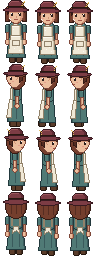
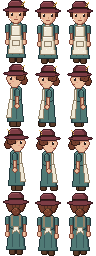
Mira: replace the bob with a centre-parted low bun
Claude-Session: https://claude.ai/code/session_01NvFAa9nga9ook5zdC6nh3r

diff --git a/tools/concept_art/mira_hd.py b/tools/concept_art/mira_hd.py
@@ -104,14 +104,24 @@ def sprite_front(step=0, back=False, apron=False, hat=True):
     part(im, lambda d: d.rectangle((13, 18 + by, 18, 23 + by), fill=255), SKIN, shade=(0, 0), light_top=0)
     put(im, [(x, 19 + by) for x in range(14, 18)] + [(x, 20 + by) for x in range(14, 18)], SKIN[1])
     if back:
-        part(im, lambda d: d.ellipse((5, 3 + by, 26, 26 + by), fill=255), HAIR)
-        put(im, [(x, y + by) for x in (11, 16, 21) for y in range(13, 22)], HAIR[1])
-    else:  # bob: crown plus straight locks beside the face (none under the chin)
-        part(im, lambda d: (d.ellipse((5, 3 + by, 26, 19 + by), fill=255), d.rectangle((5, 10 + by, 9, 21 + by), fill=255), d.rectangle((22, 10 + by, 26, 21 + by), fill=255)), HAIR)
+        # hair pulled back into a low bun at the nape
+        part(im, lambda d: d.ellipse((6, 3 + by, 25, 21 + by), fill=255), HAIR)
+        dr = ImageDraw.Draw(im)
+        for a, b in (((10, 7), (13, 17)), ((15, 5), (15, 16)), ((21, 7), (18, 17))):
+            dr.line([(a[0], a[1] + by), (b[0], b[1] + by)], fill=HAIR[1] + (255,))
+        part(im, lambda d: d.ellipse((11, 15 + by, 20, 23 + by), fill=255), HAIR, shade=(2, 0))
+        put(im, [(x, 15 + by) for x in range(13, 19)], BAND[2])  # ribbon
+        put(im, [(14, 18 + by), (16, 17 + by), (17, 20 + by)], HAIR[3])
+    else:
+        # centre parting, hair swept back over the ears into a low bun (hidden from the front)
+        part(im, lambda d: d.ellipse((6, 3 + by, 25, 17 + by), fill=255), HAIR)
         part(im, lambda d: d.ellipse((8, 5 + by, 23, 23 + by), fill=255), SKIN, shade=(3, 0), light_top=0)
-        part(im, lambda d: (d.chord((5, 3 + by, 26, 19 + by), 180, 360, fill=255),
-                            d.polygon([(7, 9 + by), (24, 9 + by), (24, 12 + by), (21, 11 + by), (18, 13 + by), (15, 11 + by), (12, 13 + by), (9, 11 + by), (7, 14 + by)], fill=255)),
-             HAIR, shade=(3, 0))
+        part(im, lambda d: d.polygon([(6, 15 + by), (6, 8 + by), (9, 4 + by), (13, 3 + by), (18, 3 + by), (22, 4 + by), (25, 8 + by), (25, 15 + by),
+                                      (23, 15 + by), (22, 10 + by), (19, 8 + by), (16, 8 + by), (15, 8 + by), (12, 8 + by), (9, 10 + by), (8, 15 + by)], fill=255),
+             HAIR, shade=(2, 0))
+        put(im, [(15, 4 + by), (15, 5 + by), (15, 6 + by), (16, 7 + by)], HAIR[1])            # parting
+        put(im, [(11, 5 + by), (19, 4 + by), (21, 5 + by), (10, 7 + by)], HAIR[3])             # shine
+        put(im, [(8, 16 + by), (8, 17 + by), (9, 18 + by)], HAIR[1])                           # loose strand
         y = 13 + by
         for ex in (11, 19):
             put(im, [(ex, y), (ex + 1, y), (ex, y + 1), (ex + 1, y + 1), (ex, y + 2), (ex + 1, y + 2)], INK)
@@ -125,9 +135,6 @@ def sprite_front(step=0, back=False, apron=False, hat=True):
     if hat:
         hat_front(im, by, back)
         put(im, [(x, 12 + by) for x in range(9, 23)] if not back else [], SKIN[1])  # shadow under the brim
-    else:
-        put(im, [(10, 6 + by), (13, 4 + by), (18, 4 + by), (21, 6 + by), (12, 7 + by), (19, 7 + by)], HAIR[3])
-        put(im, [(15, 4 + by), (15, 5 + by), (16, 6 + by)], HAIR[1])  # parting
     return im
 
 
@@ -149,12 +156,15 @@ def sprite_side(step=0, apron=False, hat=True):
     part(im, lambda d: d.rectangle((13 + sw // 2, 32 + by, 16 + sw // 2, 41 + by), fill=255), SKIN, light_top=0)
     part(im, lambda d: d.ellipse((12 + sw, 39 + by, 17 + sw, 44 + by), fill=255), SKIN, light_top=0)
     part(im, lambda d: d.rectangle((14, 18 + by, 18, 23 + by), fill=255), SKIN, shade=(0, 0), light_top=0)
-    part(im, lambda d: d.ellipse((6, 3 + by, 23, 25 + by), fill=255), HAIR)
+    part(im, lambda d: d.ellipse((6, 3 + by, 22, 19 + by), fill=255), HAIR)
+    part(im, lambda d: d.ellipse((4, 12 + by, 11, 20 + by), fill=255), HAIR, shade=(0, 0))      # low bun
+    put(im, [(10, 13 + by), (10, 14 + by), (10, 15 + by)], BAND[2])                               # ribbon
     part(im, lambda d: (d.ellipse((10, 5 + by, 24, 23 + by), fill=255), d.rectangle((23, 13 + by, 25, 15 + by), fill=255)), SKIN, shade=(0, 0), light_top=0)
-    part(im, lambda d: (d.chord((6, 3 + by, 25, 21 + by), 180, 360, fill=255),
-                        d.polygon([(9, 9 + by), (24, 9 + by), (24, 11 + by), (21, 12 + by), (18, 10 + by), (15, 12 + by), (12, 11 + by), (12, 18 + by), (9, 16 + by)], fill=255)),
-         HAIR, shade=(3, 0))
-    put(im, [(14, 13 + by), (14, 14 + by), (15, 15 + by)], SKIN[1])  # ear hint
+    part(im, lambda d: d.polygon([(7, 15 + by), (6, 8 + by), (9, 4 + by), (14, 3 + by), (20, 4 + by), (23, 7 + by), (24, 10 + by), (21, 9 + by),
+                                  (18, 9 + by), (16, 11 + by), (15, 15 + by), (12, 16 + by), (9, 16 + by)], fill=255), HAIR, shade=(0, 0))
+    put(im, [(16, 12 + by), (16, 13 + by), (17, 13 + by), (16, 14 + by)], SKIN[1])  # ear
+    put(im, [(12, 5 + by), (16, 4 + by), (19, 5 + by), (9, 8 + by)], HAIR[3])
+    put(im, [(13, 8 + by), (12, 11 + by), (11, 13 + by)], HAIR[1])
     put(im, [(20, 13 + by), (21, 13 + by), (20, 14 + by), (21, 14 + by), (20, 15 + by), (21, 15 + by)], INK)
     put(im, [(21, 13 + by)], (255, 255, 255))
     put(im, [(19, 12 + by), (22, 12 + by)], INK)
@@ -166,8 +176,6 @@ def sprite_side(step=0, apron=False, hat=True):
         part(im, lambda d: d.ellipse((4, 7 + by, 28, 11 + by), fill=255), HAT, shade=(3, 0), light_top=0)
         put(im, [(9, 3 + by), (8, 2 + by), (7, 1 + by), (9, 5 + by)], WHEAT)
         put(im, [(x, 12 + by) for x in range(17, 24)], SKIN[1])
-    else:
-        put(im, [(11, 5 + by), (14, 4 + by), (18, 5 + by), (9, 9 + by), (13, 7 + by)], HAIR[3])
     return im
 
 
@@ -184,16 +192,23 @@ def portrait(expr, apron=False, hat=True):
         put(im, [(40, 110), (43, 113), (41, 117), (86, 108), (89, 112)], FLOUR)
     part(im, lambda d: d.rectangle((50, 76, 77, 104), fill=255), SKIN, shade=(5, 0), light_top=0)
     put(im, [(x, y) for x in range(51, 77) for y in range(80, 86)], SKIN[1])
-    part(im, lambda d: (d.ellipse((24, 18, 104, 98), fill=255), d.rectangle((24, 58, 36, 94), fill=255), d.rectangle((92, 58, 104, 90), fill=255)), HAIR, shade=(4, 0))
+    part(im, lambda d: d.ellipse((81, 66, 101, 90), fill=255), HAIR, shade=(3, 0))          # low bun, tucked behind the jaw
+    part(im, lambda d: d.ellipse((30, 14, 98, 78), fill=255), HAIR, shade=(4, 0))
     part(im, lambda d: d.ellipse((31, 54, 41, 70), fill=255), SKIN, shade=(0, 0), light_top=0)
     part(im, lambda d: d.ellipse((87, 54, 97, 70), fill=255), SKIN, shade=(0, 0), light_top=0)
     part(im, lambda d: d.ellipse((35, 24, 93, 96), fill=255), SKIN, shade=(6, 0), light_top=0)
-    part(im, lambda d: (d.chord((26, 14, 102, 70), 180, 360, fill=255),
-                        d.polygon([(36, 36), (92, 36), (94, 46), (88, 43), (82, 50), (76, 42), (68, 47), (60, 41), (52, 48), (46, 42), (40, 50), (35, 47)], fill=255)),
-         HAIR, shade=(4, 0), light_top=0)
+    # centre parting, hair swept back over the ears
+    part(im, lambda d: d.polygon([(31, 68), (30, 46), (35, 30), (46, 20), (58, 15), (70, 15), (82, 20), (93, 30), (98, 46), (97, 68),
+                                  (92, 68), (91, 52), (86, 42), (77, 35), (67, 32), (64, 35), (61, 32), (51, 35), (42, 42), (37, 52), (36, 68)], fill=255),
+         HAIR, shade=(4, 0), light_top=1)
     d = ImageDraw.Draw(im)
-    for a, b in (((50, 40), (46, 42)), ((62, 40), (60, 41)), ((74, 40), (76, 42)), ((86, 40), (88, 43))):
+    d.line([(64, 16), (64, 33)], fill=HAIR[1] + (255,))
+    for a, b in (((62, 19), (44, 34)), ((60, 23), (39, 47)), ((66, 19), (84, 34)), ((68, 23), (90, 47))):
         d.line([a, b], fill=HAIR[1] + (255,))
+    for a, b in (((56, 19), (46, 27)), ((72, 19), (82, 27)), ((51, 27), (38, 42)), ((77, 27), (91, 42))):
+        d.line([a, b], fill=HAIR[3] + (255,))
+    d.line([(38, 50), (40, 60), (38, 72)], fill=HAIR[1] + (255,))   # loose strands
+    d.line([(90, 50), (88, 60), (90, 68)], fill=HAIR[1] + (255,))
     for cx in (52, 76):
         part(im, lambda d, cx=cx: d.ellipse((cx - 7, 56, cx + 7, 64), fill=255), ((120, 96, 90), (226, 220, 212), (246, 242, 236), (246, 242, 236)), shade=(0, 0), light_top=0)
         d.ellipse((cx - 3, 56, cx + 3, 64), fill=IRIS + (255,))
@@ -224,11 +239,6 @@ def portrait(expr, apron=False, hat=True):
     else:
         d.line([(59, 85), (69, 85)], fill=MOUTH + (255,)); put(im, [(58, 84), (57, 83), (70, 84), (71, 83)], MOUTH)
         d.line([(61, 86), (67, 86)], fill=LIP + (255,))
-    if not hat:
-        # crown of the head: parting and highlights
-        d.line([(66, 20), (62, 34)], fill=HAIR[1] + (255,))
-        for a, b in (((44, 30), (54, 22)), ((48, 34), (58, 26)), ((74, 24), (86, 32)), ((76, 30), (88, 38))):
-            d.line([a, b], fill=HAIR[3] + (255,))
     bg = Image.new("RGBA", (128, 128), (233, 216, 180, 255))
     ImageDraw.Draw(bg).rectangle((0, 0, 127, 127), outline=(185, 160, 120))
     if not hat:

diff --git a/docs/GAME_DESIGN.md b/docs/GAME_DESIGN.md
@@ -557,7 +557,7 @@ Mira's line is the theme of the game in one sentence: she's *right* that hope ge
 - **Pip's lantern.** Every night Pip puts a lantern in the window "so Dad can find the way home". This is the **first hope anchor** the player sees, and how the anchor mechanic is taught. If the lantern goes out, Pip relights it, again and again.
 - Mira won't let anyone talk about Edric in front of Pip: *"Don't you dare tell my son his father is coming back."*
 - **Sprout.** Pip befriends a tiny root creature that crawled out of the Strange Garden and names it Sprout. Mira hates it. Sprout turns out to be a piece of the dungeon's roots that has "gone wrong" and loves the boy. (Later, Sprout can sense root nodes and lead you through the Roots level.)
-- **Her look tells her arc:** a plain town dress, no belt; a worn felt hat outdoors (with a wheat sprig in the band, a hint of who she was), hatless indoors. **No apron** at the start. The day she agrees to bake again, she ties on her old apron, and keeps it on for the rest of the game. A small visual sign of hope returning.
+- **Her look tells her arc:** hair tied back in a practical low bun, a few strands always escaping; a plain town dress, no belt; a worn felt hat outdoors (with a wheat sprig in the band, a hint of who she was), hatless indoors. **No apron** at the start. The day she agrees to bake again, she ties on her old apron, and keeps it on for the rest of the game. A small visual sign of hope returning.
 - **Reopening the bakery** is Mira's quest: flour (Granary), a working oven (rubble, the forge), water (the well). When the bakery opens, she bakes for everyone, but still won't hope.
 
 **Middle (Acts 2–3)**

diff --git a/docs/ART.md b/docs/ART.md
@@ -43,7 +43,7 @@
 ## 5. Concept sprites
 - **Mira Wainwright:** [preview](concept-art/mira/mira_preview.png) · [walk GIF](concept-art/mira/mira_walk.gif) · Unity-ready sheets: [walk 16×32](concept-art/mira/mira_walk_16x32.png) (rows: down, left, right, up; columns: idle, step, step) and [portraits 64×64](concept-art/mira/mira_portraits_64.png) (neutral, stern, soft).
   Generated by [tools/concept_art/mira.py](../tools/concept_art/mira.py). **Concept quality**: a style and colour reference for an artist, not final art.
-- **Mira, higher resolution (current look):** plain teal dress (no belt), felt hat with a wheat sprig **outdoors**, **hatless indoors**, apron **once she decides to cook again**. [Preview](concept-art/mira/mira_hd_preview.png).
+- **Mira, higher resolution (current look):** hair parted in the middle and tied back in a low bun with loose strands, plain teal dress (no belt), felt hat with a wheat sprig **outdoors**, **hatless indoors**, apron **once she decides to cook again**. [Preview](concept-art/mira/mira_hd_preview.png).
   - Outdoors: [walk GIF](concept-art/mira/mira_hd_outdoor_walk.gif) · [walk 32×64](concept-art/mira/mira_hd_outdoor_walk_32x64.png) · [portraits](concept-art/mira/mira_hd_outdoor_portraits_128.png)
   - Indoors: [walk GIF](concept-art/mira/mira_hd_indoor_walk.gif) · [walk 32×64](concept-art/mira/mira_hd_indoor_walk_32x64.png) · [portraits](concept-art/mira/mira_hd_indoor_portraits_128.png)
   - Outdoors, cooking: [walk 32×64](concept-art/mira/mira_hd_outdoor_apron_walk_32x64.png) · [portraits](concept-art/mira/mira_hd_outdoor_apron_portraits_128.png)
